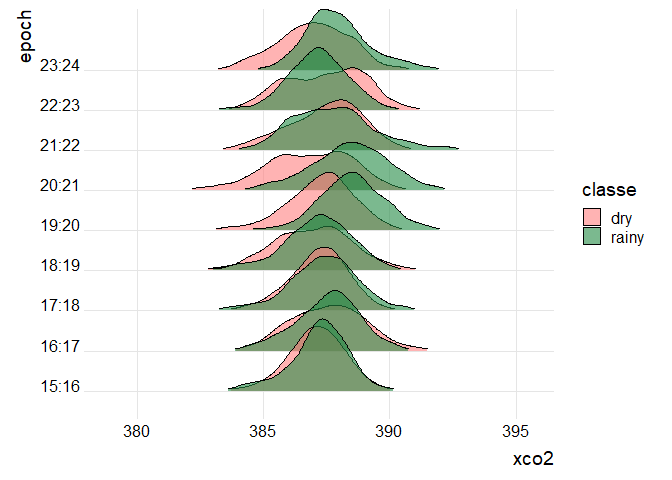
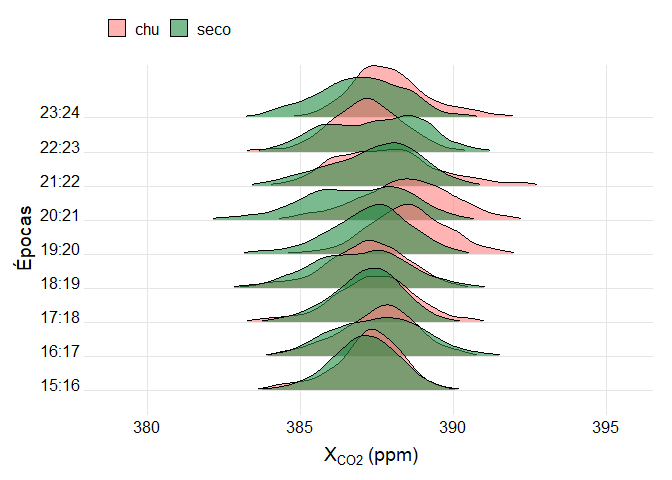
novo grafico

diff --git a/README.md b/README.md
@@ -141,6 +141,7 @@ data_set_sp %>%
   #   classe = ifelse(tratamento ==
   #            "UC_desm" | tratamento == "TI_desm",
   #                   "Des","Con")
+    season = ifelse(season=="dry","seco","chu")
   ) %>%
   ggplot(aes(y=epoch)) +
   geom_density_ridges(rel_min_height = 0.03,
@@ -148,8 +149,15 @@ data_set_sp %>%
                       alpha = .6, color = "black"
   ) +
   scale_fill_cyclical(values = c("#ff8080","#238B45"),
-                      name = "classe", guide = "legend") +
-  theme_ridges()
+                      name = "", guide = "legend") +
+  theme_ridges() +
+  labs(x=expression(paste(X[CO2]," (ppm)")),
+       y="Épocas") +
+  theme(
+    axis.title.x = element_text(hjust = .5),
+    axis.title.y = element_text(hjust = .5),
+    legend.position = "top"
+    )
 ```
 
 ![](README_files/figure-gfm/unnamed-chunk-9-1.png)<!-- -->
@@ -1084,11 +1092,11 @@ city_kgr_beta_group <- city_kgr_beta_anom |>
 city_kgr_beta_group  |>
   mutate( grupo = as_factor(grupo)) |> 
   drop_na() |> 
-     ggplot() +
-     geom_sf(aes(fill=grupo), color="transparent",
-             size=.05, show.legend = TRUE)  +
-  geom_sf(data=citys |> filter(abbrev_state == "SP"), fill="transparent", size=3, show.legend = FALSE) +
-     theme_bw() +
+  ggplot() +
+  geom_sf(aes(fill=grupo), color="transparent",
+          size=.05, show.legend = TRUE)  +
+  geom_sf(data=citys |> filter(abbrev_state == "SP"), fill="transparent", size=.5, show.legend = FALSE) +
+  theme_bw() +
    theme(
      axis.text.x = element_text(size = rel(.9), color = "black"),
      axis.title.x = element_text(size = rel(1.1), color = "black"),
